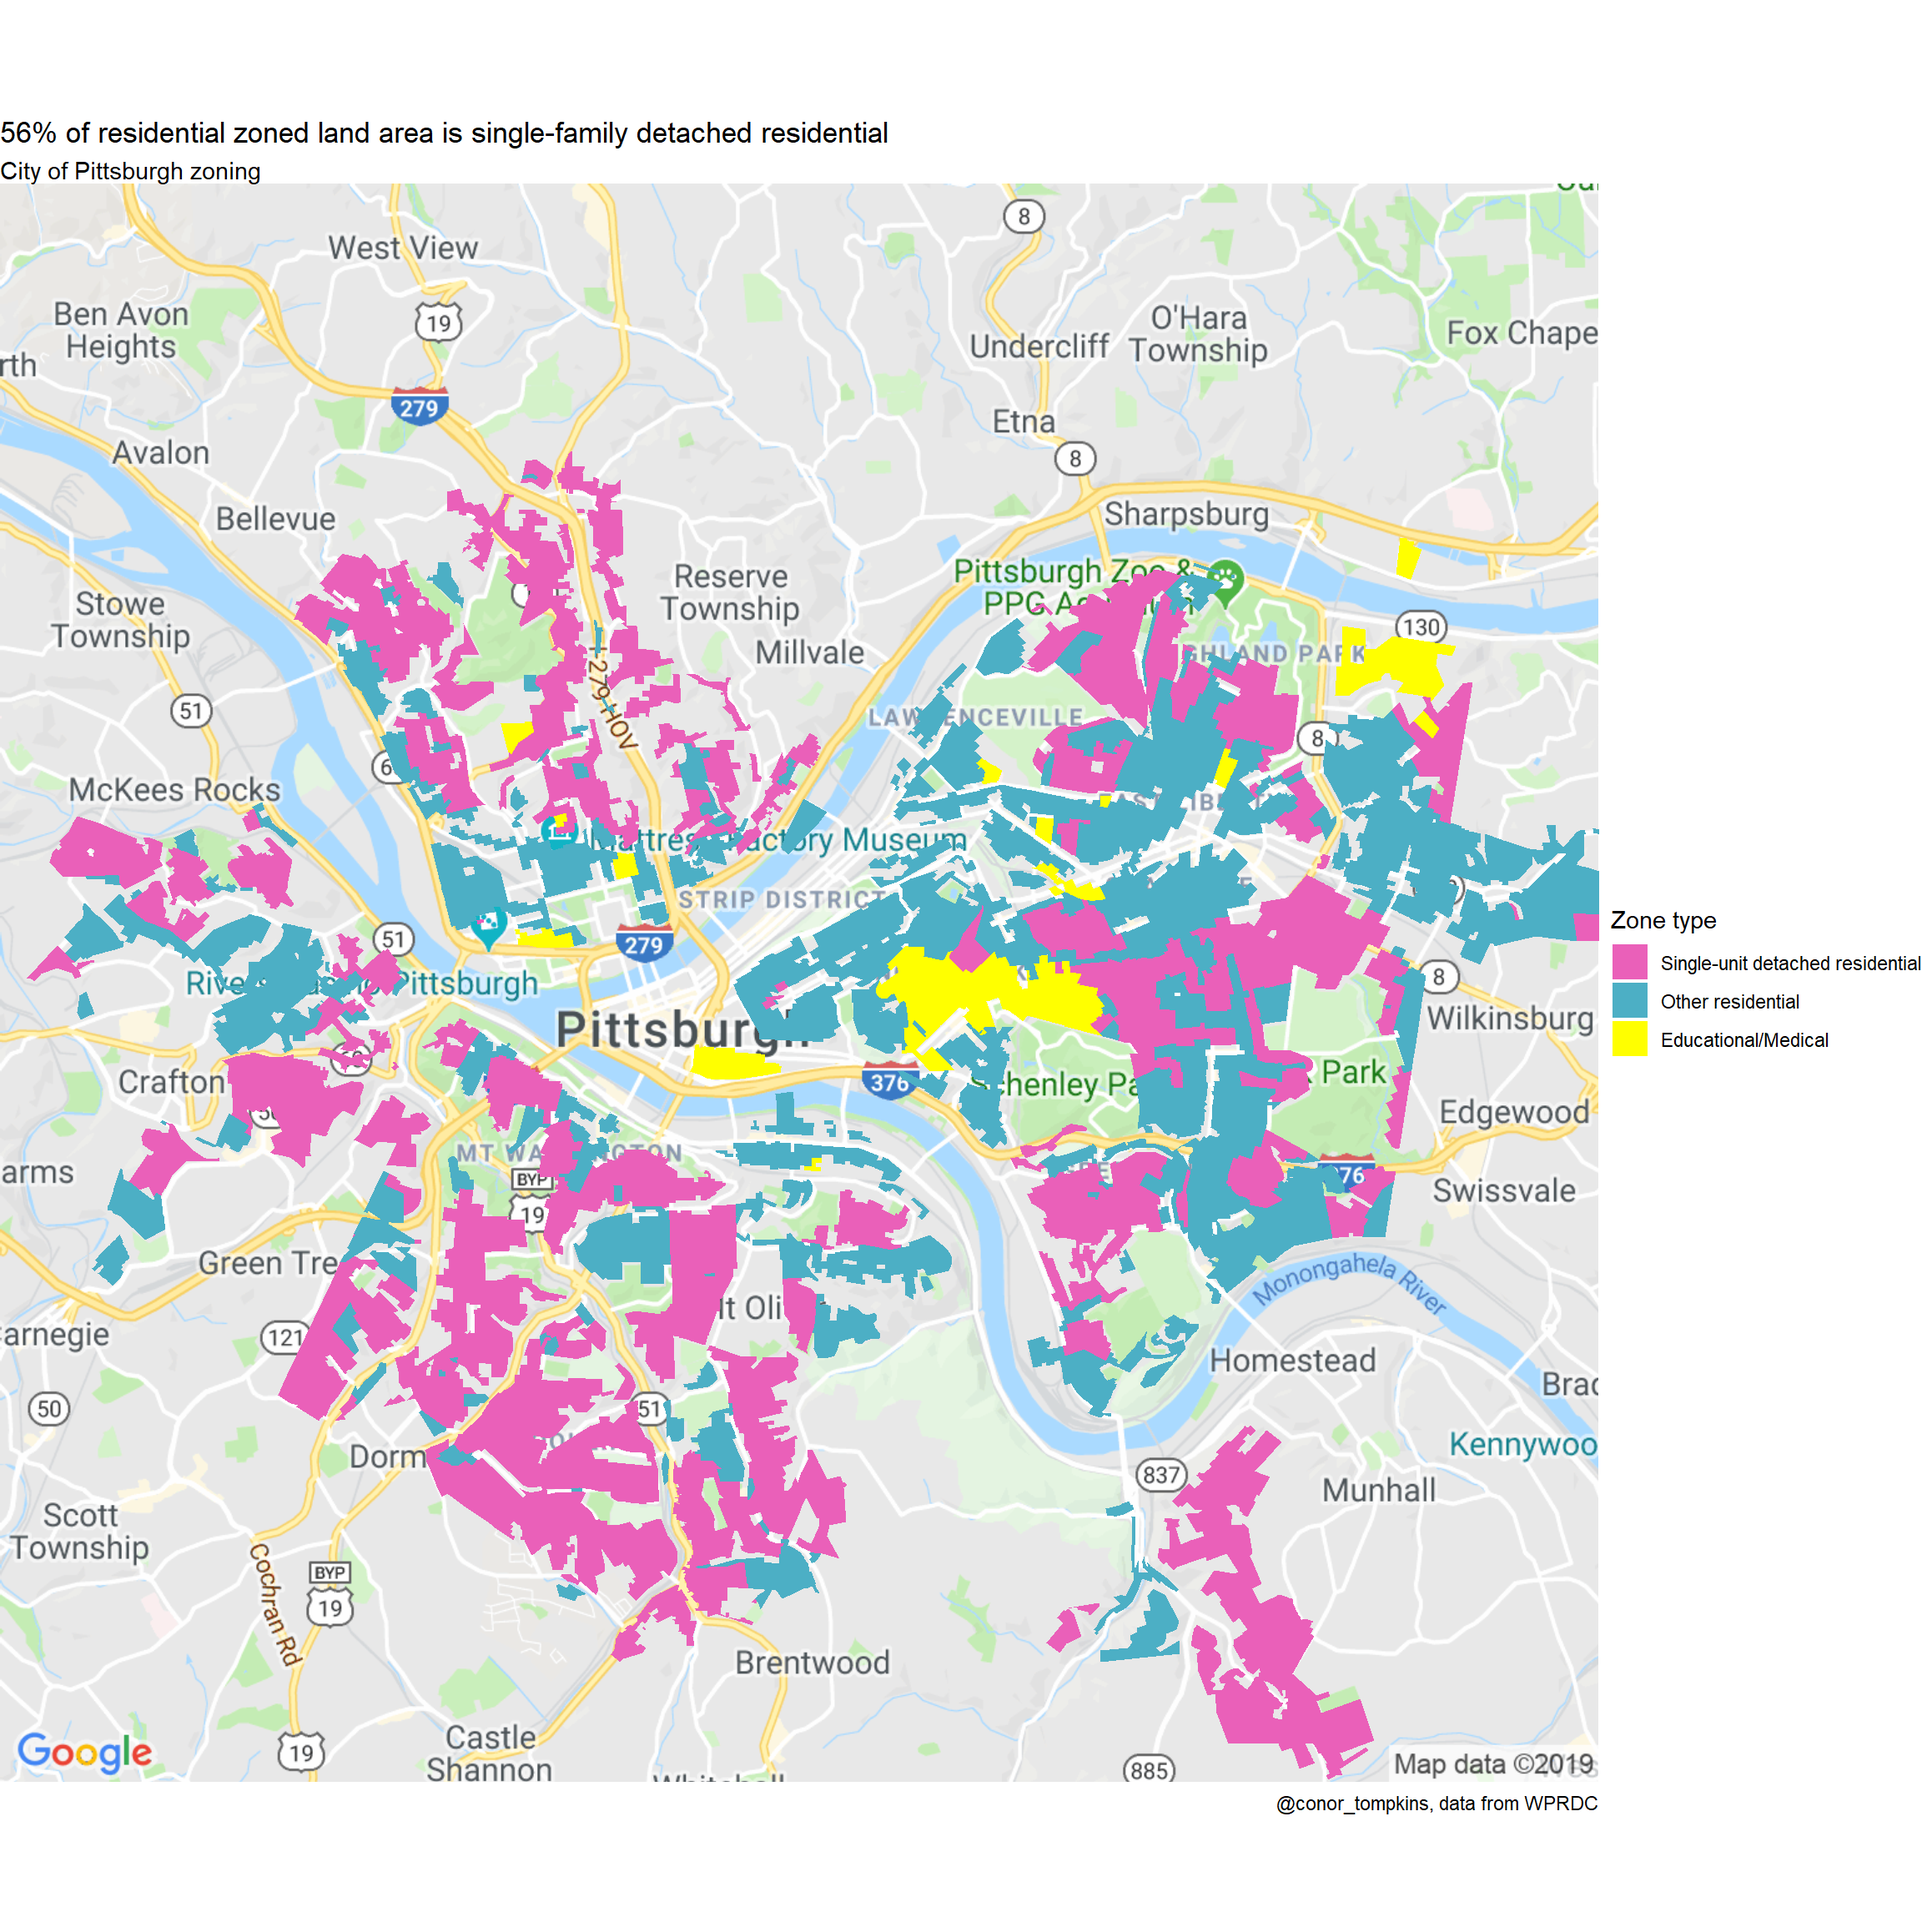
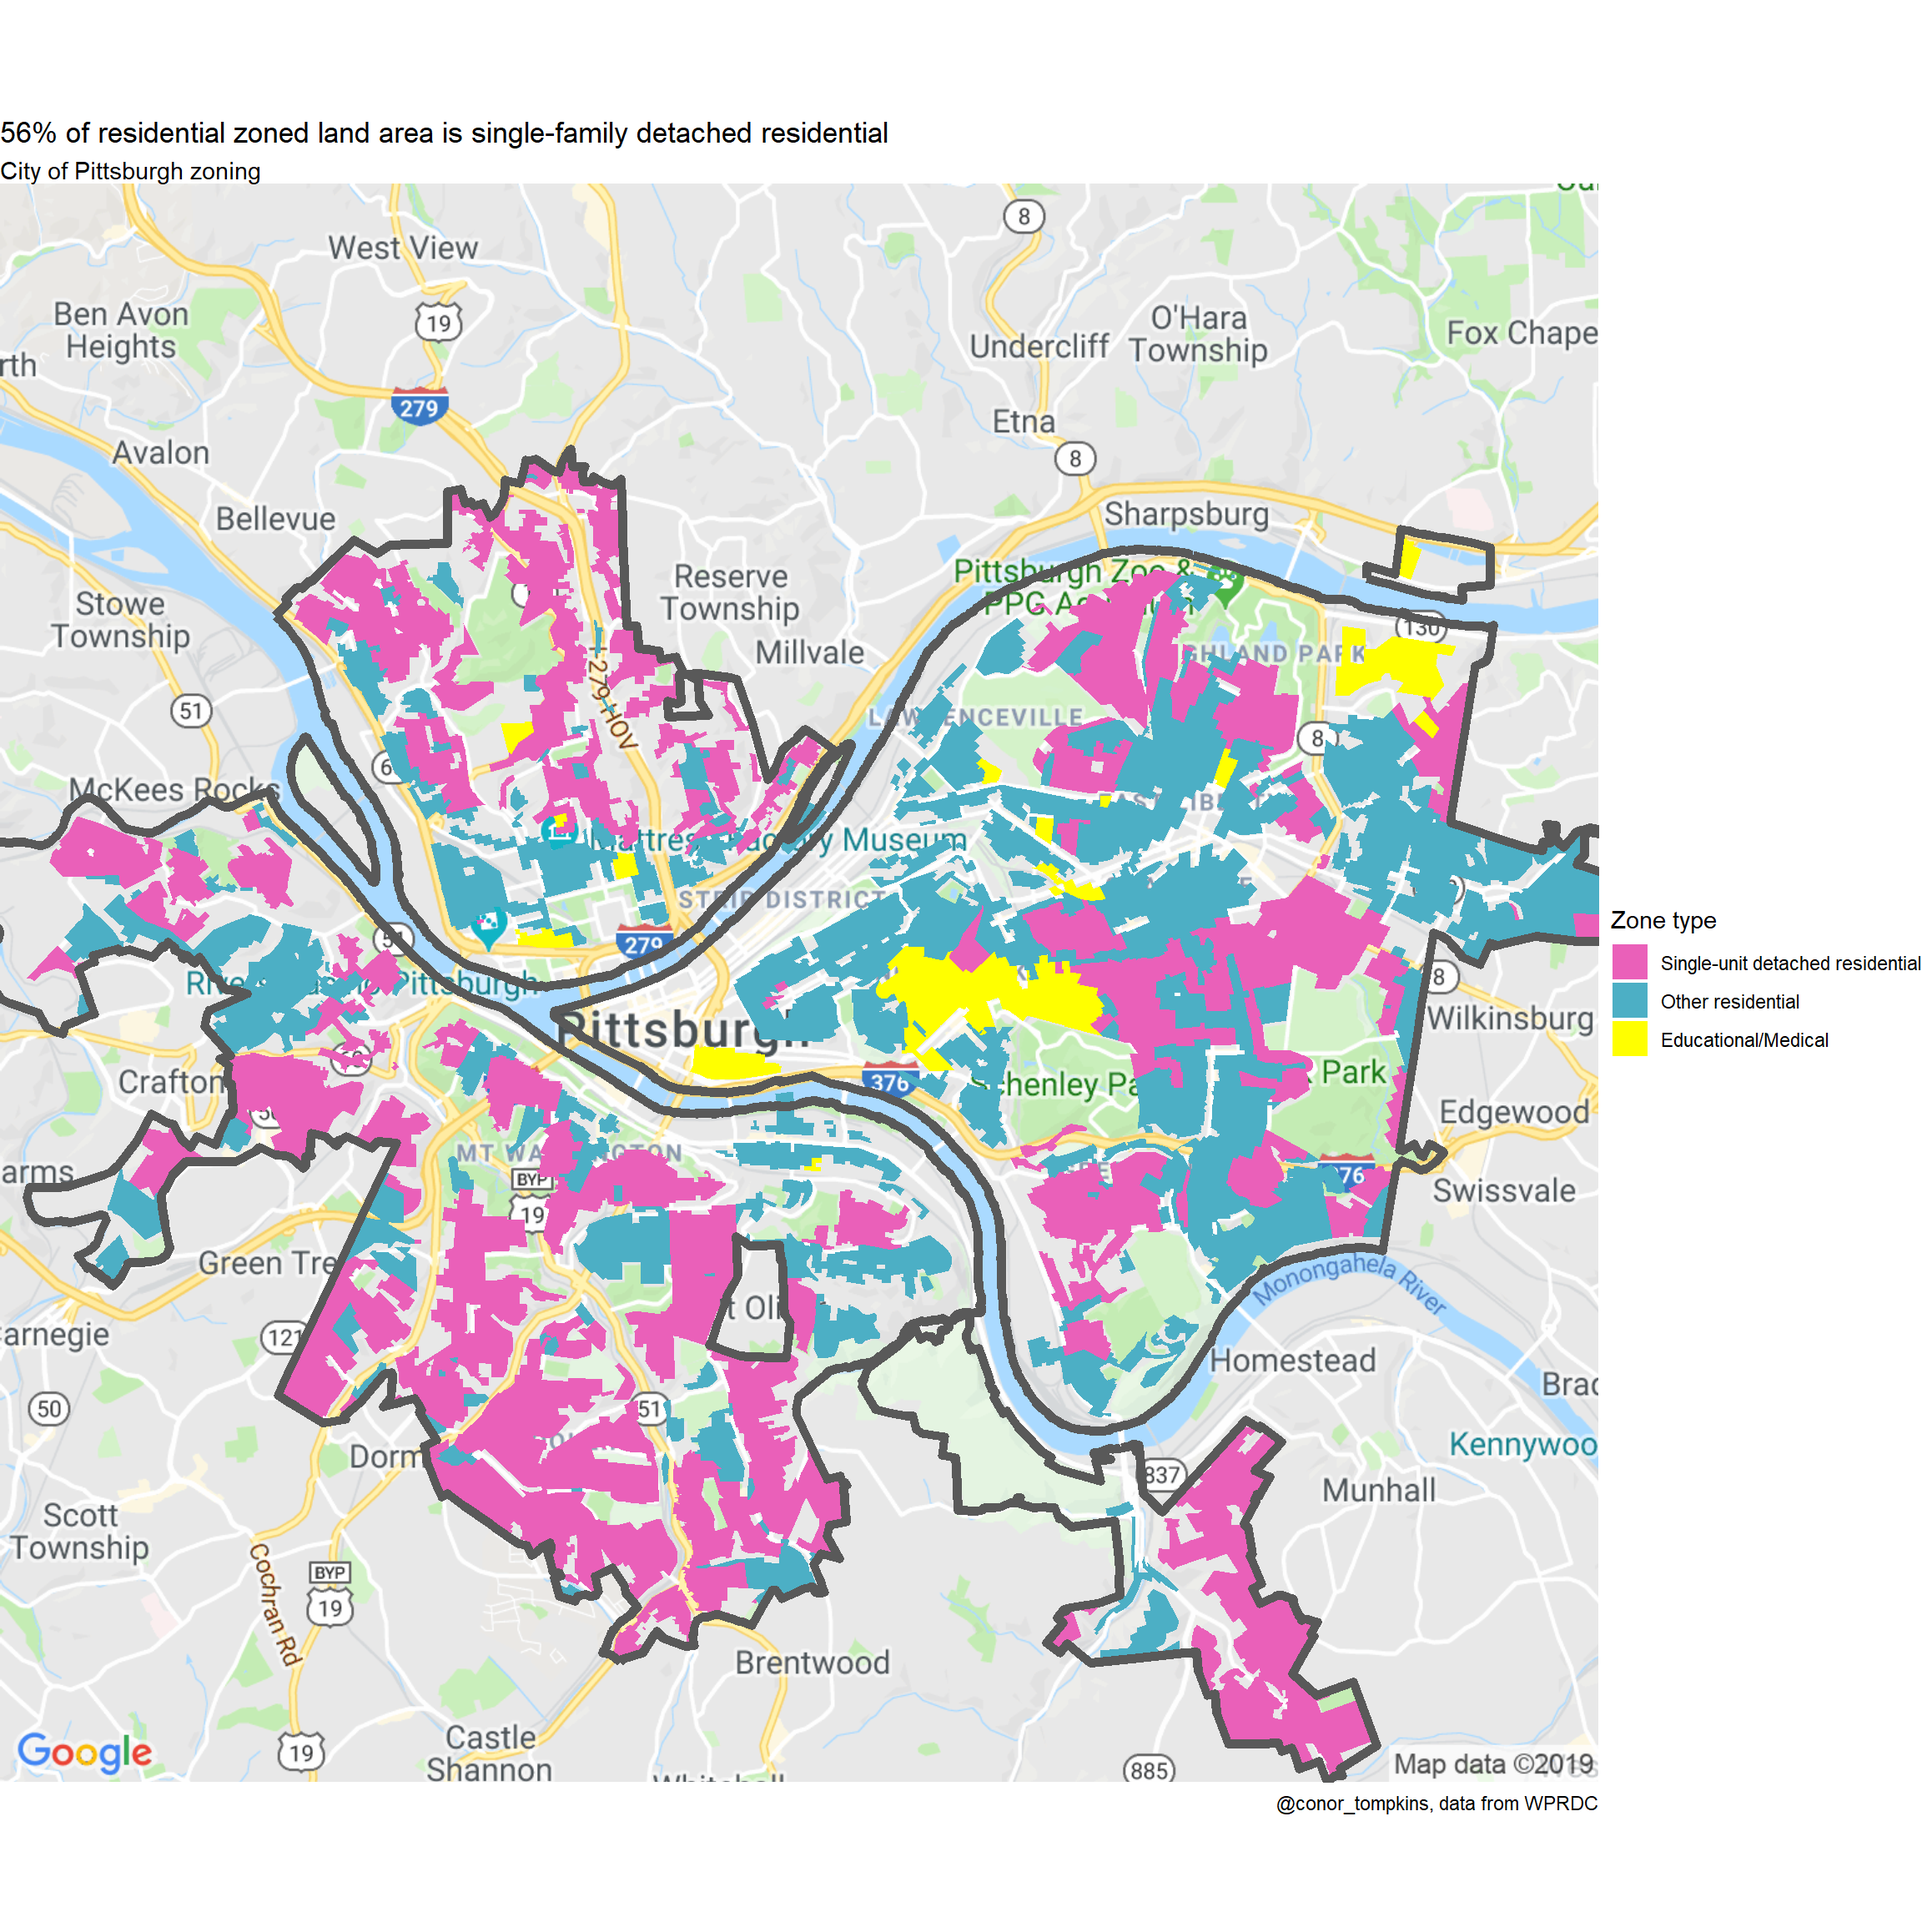
added boundaries of city to map

diff --git a/content/post/2019-06-22-residential-zoning-in-pittsburgh.html b/content/post/2019-06-22-residential-zoning-in-pittsburgh.html
@@ -166,12 +166,21 @@ options(scipen = 999)</code></pre>
 ##   &lt;lgl&gt;                 &lt;dbl&gt;    &lt;dbl&gt;
 ## 1 FALSE            335471796.    0.435
 ## 2 TRUE             435363597.    0.565</code></pre>
-<p>This creates a map of the zones, fills them by <code>type</code>, and overlays it on a GoogleMaps basemap:</p>
+<p>This creates a map of the zones, fills them by <code>type</code>, and overlays it on a GoogleMaps basemap. I also insert the boundaries of the City of Pittsburgh.</p>
+<pre class="r"><code>city_boundary &lt;- st_read(&quot;data/Pittsburgh_City_Boundary/Pittsburgh_City_Boundary.shp&quot;)</code></pre>
+<pre><code>## Reading layer `Pittsburgh_City_Boundary&#39; from data source `C:\Users\Conor\Documents\github\blog\content\post\data\Pittsburgh_City_Boundary\Pittsburgh_City_Boundary.shp&#39; using driver `ESRI Shapefile&#39;
+## Simple feature collection with 8 features and 6 fields
+## geometry type:  POLYGON
+## dimension:      XY
+## bbox:           xmin: -80.09534 ymin: 40.36161 xmax: -79.86577 ymax: 40.50097
+## epsg (SRID):    4326
+## proj4string:    +proj=longlat +datum=WGS84 +no_defs</code></pre>
 <pre class="r"><code>#register_google(key = &quot;your key here&quot;)
 pgh_map &lt;- get_map(location = &quot;The Hill, Pittsburgh, PA&quot;, zoom = 12, maptype = &quot;roadmap&quot;, source = &quot;google&quot;)
 
 ggmap(pgh_map) +
   geom_sf(data = df %&gt;% filter(type != &quot;Other non-residential&quot;), aes(fill = type), inherit.aes = FALSE, size = .5, alpha = 1, color = NA) +
+  geom_sf(data = city_boundary, inherit.aes = FALSE, alpha = 0, size = 2) +
   coord_sf(crs = st_crs(4326)) +
   scale_fill_manual(&quot;Zone type&quot;,
                       values = c(&quot;#ea60b9&quot;, &quot;#4cafc5&quot;, &quot;yellow&quot;, &quot;light grey&quot;)) +
